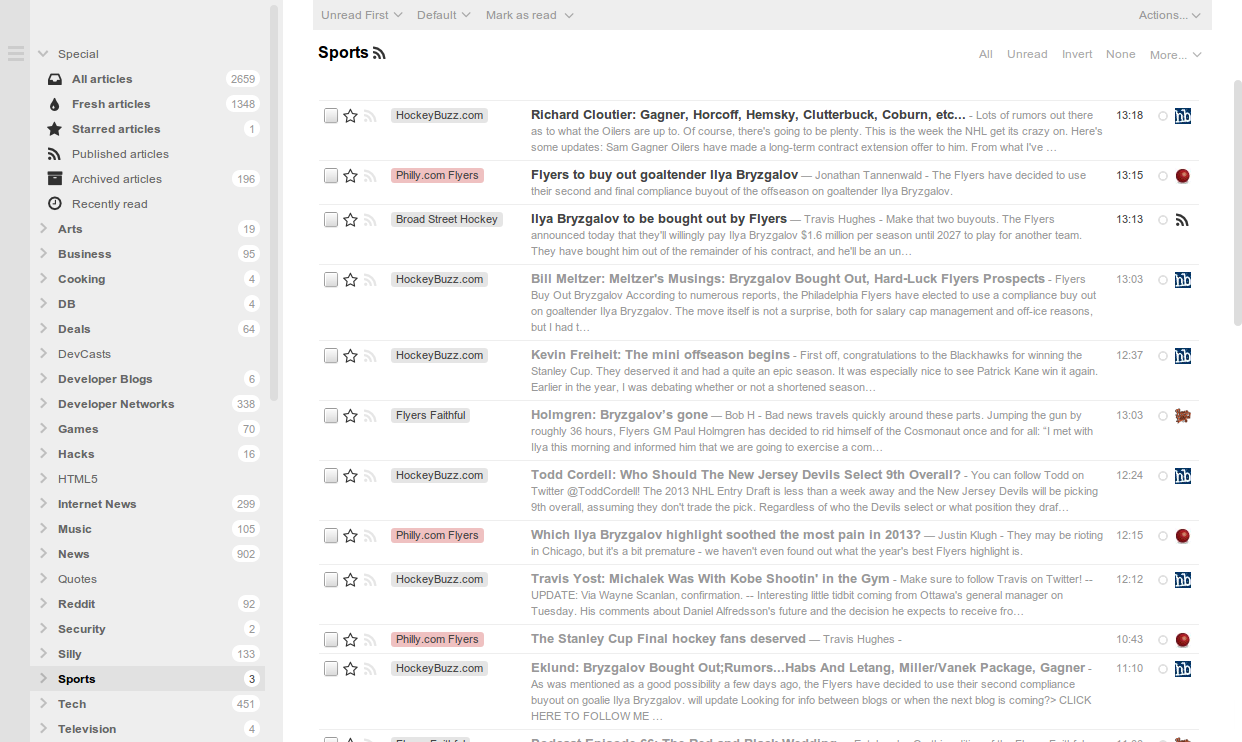
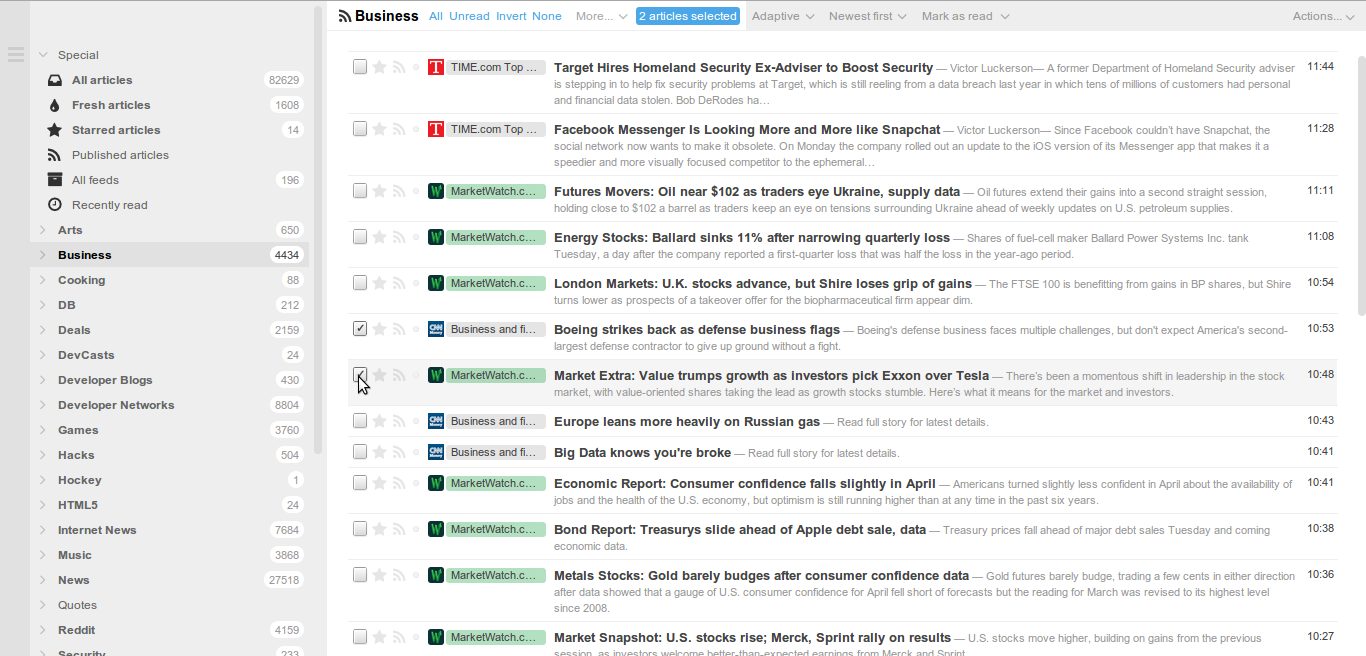
Fixes for ttrss v1.12

diff --git a/chalk.css b/chalk.css
@@ -352,6 +352,7 @@ img,
 	width: auto;
 }
 #main-toolbar {
+  min-height: 30px;
 	display: block;
 }
 #main_toolbar_form,
@@ -359,10 +360,14 @@ img,
 	display: table-cell;
 	white-space: nowrap;
 }
+#main_toolbar_form {
+  float: left;
+  margin: 5px 0 0 5px;
+}
 .actionChooser {
 	text-align: right;
   position: absolute;
-  top: 4px;
+  top: 5px;
   right: 7px;
 }
 #headlines-toolbar_splitter,
@@ -397,8 +402,8 @@ a:hover {
 	padding: 0 0 0 30px;
 }
 #main-toolbar {
-	padding: 4px 0 5px 7px;
-  margin: 0 30px;
+	padding: 0;
+  margin: 0;
   box-sizing: border-box;
 	border: 0;
   position: relative;
@@ -626,14 +631,15 @@ a:hover {
 }
 
 /* feed tree */
-#main_toolbar_form > .dijitButton {
+#ttrssMain #main_toolbar_form > .dijitButton {
+  display: block !important;
 	position: fixed;
 	top: 0;
 	left: 0;
 	bottom: 0;
 	width: 30px;
 }
-#main_toolbar_form > .dijitButton .dijitButtonNode {
+#ttrssMain #main_toolbar_form > .dijitButton .dijitButtonNode {
 	position: absolute;
 	top: 0;
 	left: 0;
@@ -646,15 +652,15 @@ a:hover {
 	-webkit-transition: background .5s;
 	transition: background .5s;
 }
-#main_toolbar_form > .dijitButton .dijitButtonContents,
-#main_toolbar_form > .dijitButton .dijitButtonContents:before,
-#main_toolbar_form > .dijitButton .dijitButtonContents:after {
+#ttrssMain #main_toolbar_form > .dijitButton .dijitButtonContents,
+#ttrssMain #main_toolbar_form > .dijitButton .dijitButtonContents:before,
+#ttrssMain #main_toolbar_form > .dijitButton .dijitButtonContents:after {
 	position: absolute;
 	width: 16px;
 	border-top: 3px solid;
 	background: transparent;
 }
-#main_toolbar_form > .dijitButton .dijitButtonContents {
+#ttrssMain #main_toolbar_form > .dijitButton .dijitButtonContents {
 	top: 46px;
 	left: 8px;
 	padding: 0;
@@ -664,19 +670,19 @@ a:hover {
 	-webkit-transition: color .5s;
 	transition: color .5s;
 }
-#main_toolbar_form > .dijitButton .dijitButtonContents:before,
-#main_toolbar_form > .dijitButton .dijitButtonContents:after {
+#ttrssMain #main_toolbar_form > .dijitButton .dijitButtonContents:before,
+#ttrssMain #main_toolbar_form > .dijitButton .dijitButtonContents:after {
 	content: "";
 	top: 3px;
 	left: 0;
 }
-#main_toolbar_form > .dijitButton .dijitButtonContents:after {
+#ttrssMain #main_toolbar_form > .dijitButton .dijitButtonContents:after {
 	top: 9px;
 }
-#main_toolbar_form > .dijitButton:hover .dijitButtonNode {
+#ttrssMain #main_toolbar_form > .dijitButton:hover .dijitButtonNode {
 	background: rgba(0,0,0,.1);
 }
-#main_toolbar_form > .dijitButton:hover .dijitButtonContents {
+#ttrssMain #main_toolbar_form > .dijitButton:hover .dijitButtonContents {
 	color: #444;
 }
 #feeds-holder #feedTree {
@@ -775,13 +781,12 @@ a:hover {
 	background: #fff;
 }
 #headlines-toolbar {
-	z-index: 3;
-	overflow: visible;
-	padding: 15px 35px 5px;
-	min-height: 25px;
-	text-align: right;
+  float: left;
+	padding: 3px 3px 4px 11px;
+	text-align: left;
 	color: transparent;
 	cursor: default;
+  background: #FFFFFF;
 }
 #headlines-toolbar > a {
 	text-decoration: none;
@@ -789,29 +794,26 @@ a:hover {
 	margin-left: 8px;
 	-webkit-transition: color .2s;
 	transition: color .2s;
+  position: relative;
+  top: 4px;
 }
 #headlines-toolbar > a:hover {
 	color: #444;
 }
-#headlines-toolbar:after {
-	content: "";
-	position: absolute;
-	bottom: -1px;
-	right: 35px;
-	left: 35px;
-	border-top: 1px solid #eee;
-}
 #headlines-toolbar .dijitSelect {
 	margin: -2px 0 0 10px;
 }
-#headlines-toolbar > .r {
-	float: left;
-	white-space: nowrap;
-	color: #aaa;
-}
-#headlines-toolbar > .r img {
+#headlines-toolbar .holder > .r {
 	position: relative;
-	top: -2px;
+	top: 1px;
+}
+#headlines-toolbar .holder > .r img {
+	position: relative;
+	top: 3px;
+  margin-right: 1px;
+}
+#headlines-toolbar .holder > .main {
+  margin-left: 10px;
 }
 #feed_title,
 #floatingTitle .title,
@@ -822,6 +824,7 @@ a:hover {
 }
 #feed_title,
 #feed_title a {
+  font-size: 14px;
 	color: #000;
 	-webkit-font-smoothing: antialiased;
   text-transform: capitalize;
@@ -829,18 +832,18 @@ a:hover {
 #selected_prompt {
 	float: right;
 	position: relative;
-	left: 10px;
+  top: 3px;
+  margin: 0 3px;
+  padding: 0 3px;
+  background: #4BA7E7;
+  color: #fff;
+  border-radius: 3px;
 }
 #headlines-frame {
 	z-index: 4;
-	padding: 0 35px 35px;
+  margin-top: 20px;
+	padding: 0 20px 35px;
 	background: transparent;
-}
-#headlines-frame:before {
-	content: "";
-	display: block;
-	border-top: 25px solid #fff;
-	margin: 0 -35px;
 }
 
 /* articles - expandable / separete */
@@ -898,14 +901,16 @@ a:hover {
 .cdm.expandable:not(.active) .cdmHeader > * {
 	/* old flexbox: */
 	display: block;
-	-moz-box-ordinal-group: 2;
-	-webkit-box-ordinal-group: 2;
-	-ms-flex-order: 2;
+	-moz-box-ordinal-group: 1;
+	-webkit-box-ordinal-group: 1;
+	-ms-flex-order: 1;
 	xx-ms-flex: 1;
 	/* new flexbox: */
-	-webkit-order: 2;
-	order: 2;
+	-webkit-order: 1;
+	order: 1;
 	padding: 5px;
+  position: relative;
+  top: -2px;
 }
 .cdm.expandable.active .cdmHeader > *:first-child,
 .cdm.expanded .cdmHeader > *:first-child {
@@ -915,32 +920,44 @@ a:hover {
 .cdm.expanded .cdmHeader > *:last-child {
 	padding-right: 0;
 }
-.cdm.expandable:not(.active) .cdmHeader > div:first-child,
-.cdm.expandable:not(.active) .cdmHeader > .hlFeed {
-	/* old flexbox: */
+.cdm.expandable:not(.active) .cdmHeader > .scoreWrap {
 	-moz-box-ordinal-group: 1;
 	-webkit-box-ordinal-group: 1;
 	-ms-flex-order: 1;
-	/* new flexbox: */
 	-webkit-order: 1;
 	order: 1;
 }
-.cdm.expandable:not(.active) .cdmHeader > .titleWrap {
-	/* old flexbox: */
-	-moz-box-flex: 1;
-	-webkit-box-flex: 1;
-	-ms-flex: 99;
-	-webkit-flex: 99;
-	flex: 99;
-}
 .cdm.expandable:not(.active) .cdmHeader > .hlFeed {
+	-moz-box-ordinal-group: 2;
+	-webkit-box-ordinal-group: 2;
+	-ms-flex-order: 2;
+	-webkit-order: 2;
+	order: 2;
 	box-sizing: border-box;
 	width: 140px;
 }
-.cdm.expandable:not(.active) .cdmHeader > .hlFeed a {
-	max-width: 120px;
-	overflow: hidden;
-	text-overflow: ellipsis;
+  .cdm.expandable:not(.active) .cdmHeader > .hlFeed a {
+    max-width: 90px;
+    overflow: hidden;
+    text-overflow: ellipsis;
+    position: relative;
+    top: 5px;
+  }
+.cdm.expandable:not(.active) .cdmHeader > .titleWrap {
+	-moz-box-ordinal-group: 3;
+	-webkit-box-ordinal-group: 3;
+	-ms-flex-order: 3;
+	-webkit-order: 3;
+	order: 3;
+  top: 0;
+}
+.cdm.expandable:not(.active) .cdmHeader > .updated {
+	-moz-box-ordinal-group: 4;
+	-webkit-box-ordinal-group: 4;
+	-ms-flex-order: 4;
+	-webkit-order: 4;
+	order: 4;
+  margin-right: 5px;
 }
 .cdm.expandable.active,
 .cdm.expanded {
@@ -1181,7 +1198,7 @@ div.articleNote {
 	border-bottom: 1px solid #eee;
 }
 #floatingTitle:not(:empty) {
-	display: block !important;
+	display: none !important;
 }
 #floatingTitle > * {
 	vertical-align: top !important;
@@ -1460,15 +1477,15 @@ table.prefErrorLog td.filename, table.prefErrorLog td.login, table.prefErrorLog 
 /**********************************
  * Icons
  */
-img[src*='images/mark_unset.svg'] {
-  background: url('chalk_images/star-empty.png') no-repeat;
-  opacity: .8;
+img[src*='images/mark_unset.png'] {
+  background: url('chalk_images/star.png') no-repeat;
+  opacity: .1;
   height: 16px;
   padding-right: 16px;
   width: 0;
   display: inline-block;
 }
-img[src*='images/mark_set.svg'] {
+img[src*='images/mark_set.png'], img[src*='images/star.png'] {
   background: url('chalk_images/star.png') no-repeat;
   opacity: .8;
   height: 16px;
@@ -1477,7 +1494,7 @@ img[src*='images/mark_set.svg'] {
   display: inline-block;
 }
 
-img[src*='images/pub_set.svg'] {
+img[src*='images/pub_set.png'], img[src*='images/feed.png'] {
   background: url('chalk_images/rss.png') no-repeat;
   opacity: .8;
   height: 16px;
@@ -1485,7 +1502,7 @@ img[src*='images/pub_set.svg'] {
   width: 0;
   display: inline-block;
 }
-img[src*='images/pub_unset.svg'] {
+img[src*='images/pub_unset.png'] {
   background: url('chalk_images/rss.png') no-repeat;
   opacity: .1;
   height: 16px;
@@ -1494,7 +1511,7 @@ img[src*='images/pub_unset.svg'] {
   display: inline-block;
 }
 
-img[src*='images/recently_read.png'] {
+img[src*='images/recently_read.png'], img[src*='images/time.png'] {
   background: url('chalk_images/time.png') no-repeat;
   opacity: .8;
   height: 16px;
@@ -1530,7 +1547,7 @@ img[src*='images/tag.png'] {
   display: inline-block;
 }
 
-img[src*='images/tag.png'].feedIcon {
+img[src*='images/tag.png'].feedIcon, img[src*='images/folder.png'] {
   background: url('chalk_images/inbox.png') no-repeat;
   opacity: .8;
   height: 16px;

diff --git a/README.md b/README.md
@@ -1,6 +1,18 @@
 ttrss-theme-chalk 
 ================= 
 
+** Updates for v1.12 **
+
+TT-RSS changed a few things that broke this theme in recent versions (currently on v1.12.1).  That's been corrected now along with a few minor changes to the theme.  If you're still using ttrss version 1.8 you can checkout the tag "ttrss-v1.8".
+
+* Fixes broken icons
+* Brings back the sidebar collapse control
+* Removes the floating title
+* Changed styling for main toolbar above articles
+* Screenshot updated
+
+---------------------
+
 A simplistic theme for the tt-rss reader based off of the work by [levito](https://github.com/levito/tt-rss-feedly-theme). 
 
 Prerequisites
